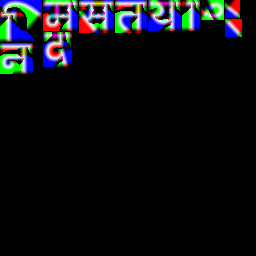
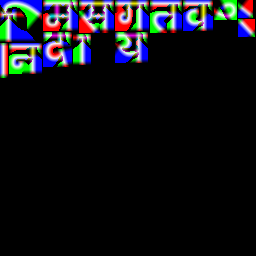
attempting something

Changed region(s): [[0.4375, 0.0, 1.0, 0.25], [0.0, 0.1562, 0.1875, 0.3125], [0.2812, 0.125, 0.375, 0.2812]]

diff --git a/test_3.html b/test_3.html
@@ -19,7 +19,7 @@
         color="orange"
         negate="false"
         align="center"
-        position="0 8 -10"
+        position="0 10 -10"
         scale="5.5 5.5 5.5"
         animation="property: object3D.position.y;
                                  to: 10; 
@@ -36,7 +36,7 @@
         negate="false"
         align="center"
         scale="5.5 5.5 5.5"
-        position="0 6 -8"
+        position="0 8 -8"
         animation="property: object3D.position.y;
                                  to: 8; 
                                  dir: alternate; 
@@ -45,14 +45,30 @@
       </a-text>
 
       <a-text
-        value="न म स् ते दु िन या नमस्ते दुिनया नमतेस् दुिनया"
+        value="欢迎，歡迎"
+        font="./fonts/cstm-1-msdf.json"
+        font-image="./fonts/cstm-1-msdf.png"
+        color="purple"
+        negate="false"
+        align="center"
+        scale="5.5 5.5 5.5"
+        position="-1 6 -6"
+        animation="property: object3D.position.x;
+                                 to: 1; 
+                                 dir: alternate; 
+                                 dur: 1000; 
+                                 loop: true">
+      </a-text>
+
+      <a-text
+        value="स्वागतम्।"
         font="./fonts/cstm-0-msdf.json"
         font-image="./fonts/cstm-0-msdf.png"
         color="yellow"
         negate="false"
         align="center"
         scale="5.5 5.5 5.5"
-        position="3 4 -12"
+        position="3 4 -4"
         animation="property: object3D.position.x;
                                  to: -3; 
                                  dir: alternate; 
